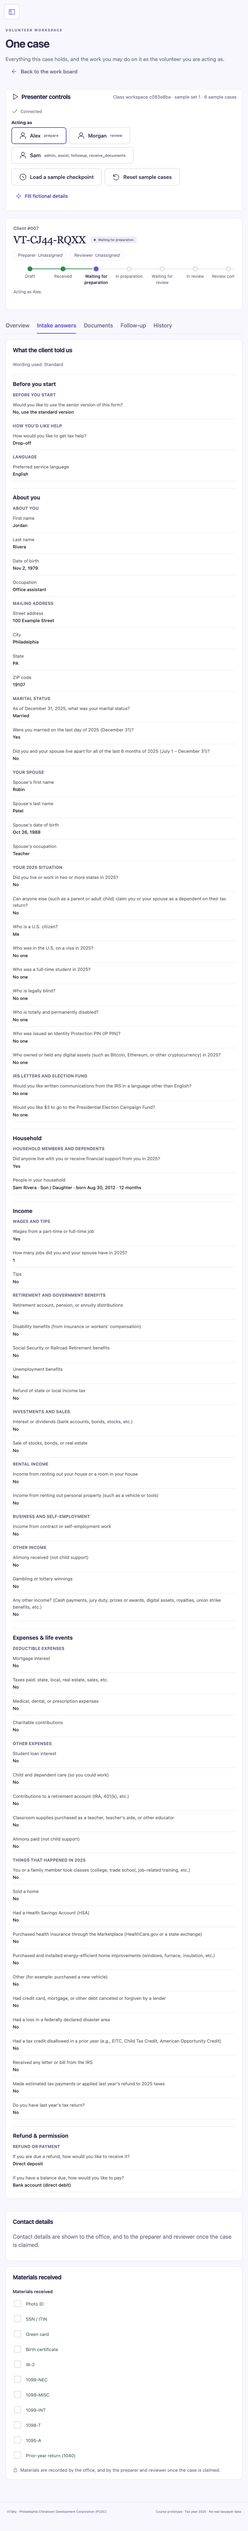
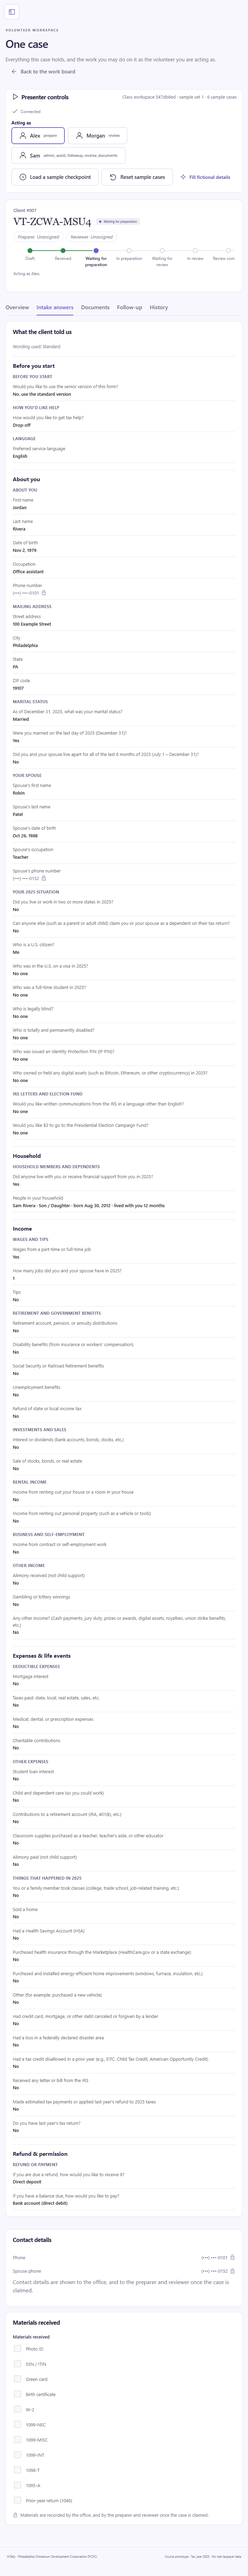
Masked phone: light outline while a click holds it; §8 wording; screenshot

diff --git a/src/styles.css b/src/styles.css
@@ -4685,6 +4685,12 @@ textarea::placeholder {
 .phone-mask:not(.is-locked):focus-within .phone-dots {
   display: none;
 }
+/* A click focuses the mask and holds the number open (DESIGN.md §8): a light
+   outline shows why it stays; keyboard focus gets the full ring below. */
+.phone-mask[tabindex]:focus {
+  outline: 2px solid var(--vt-primary-line);
+  outline-offset: 2px;
+}
 .phone-mask[tabindex]:focus-visible {
   outline: 3px solid var(--vt-primary);
   outline-offset: 2px;

diff --git a/docs/design/DESIGN.md b/docs/design/DESIGN.md
@@ -355,7 +355,7 @@ Available `#a39bd8` · Waiting for preparation `#6a5acd` · Waiting on client `#
 The volunteer work board shows only three phases as tabs (Available, Waiting for preparation, Waiting for review), with a Mine / Everyone switch on the last two. The admin case pool shows every phase.
 
 ### Masked phone
-- Lists always show `(•••) •••-1234` in tabular numerals.
+- Staff screens always show a client's phone as `(•••) •••-1234` in tabular numerals first. Today that is the case page's contact card and intake answers; no list shows a phone.
 - When the viewer may see the number (an admin, or a volunteer on their own case), a small lavender `visibility` icon follows; hover or keyboard focus swaps in the full number. A click keeps it shown only while the mask has focus, so it can be selected and copied; clicking elsewhere or pressing Tab hides it again. There's no copy button.
 - When the viewer may not see it (a volunteer on an unclaimed or someone else's case), the mask is muted with a `lock` icon and the tooltip "Claim this case to see the full number".
 
